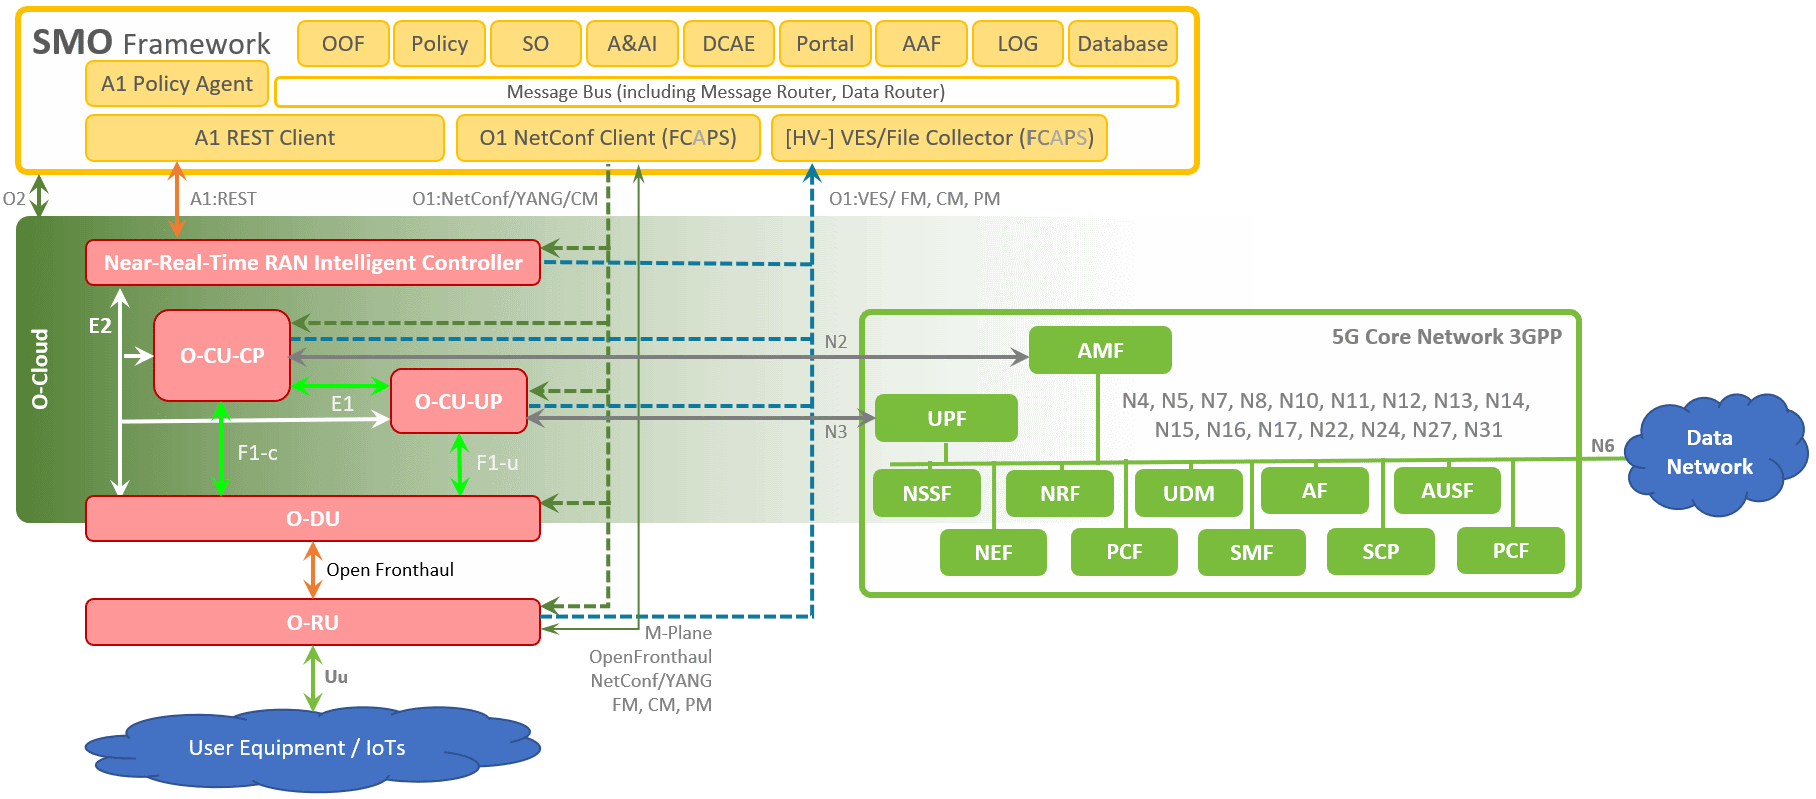
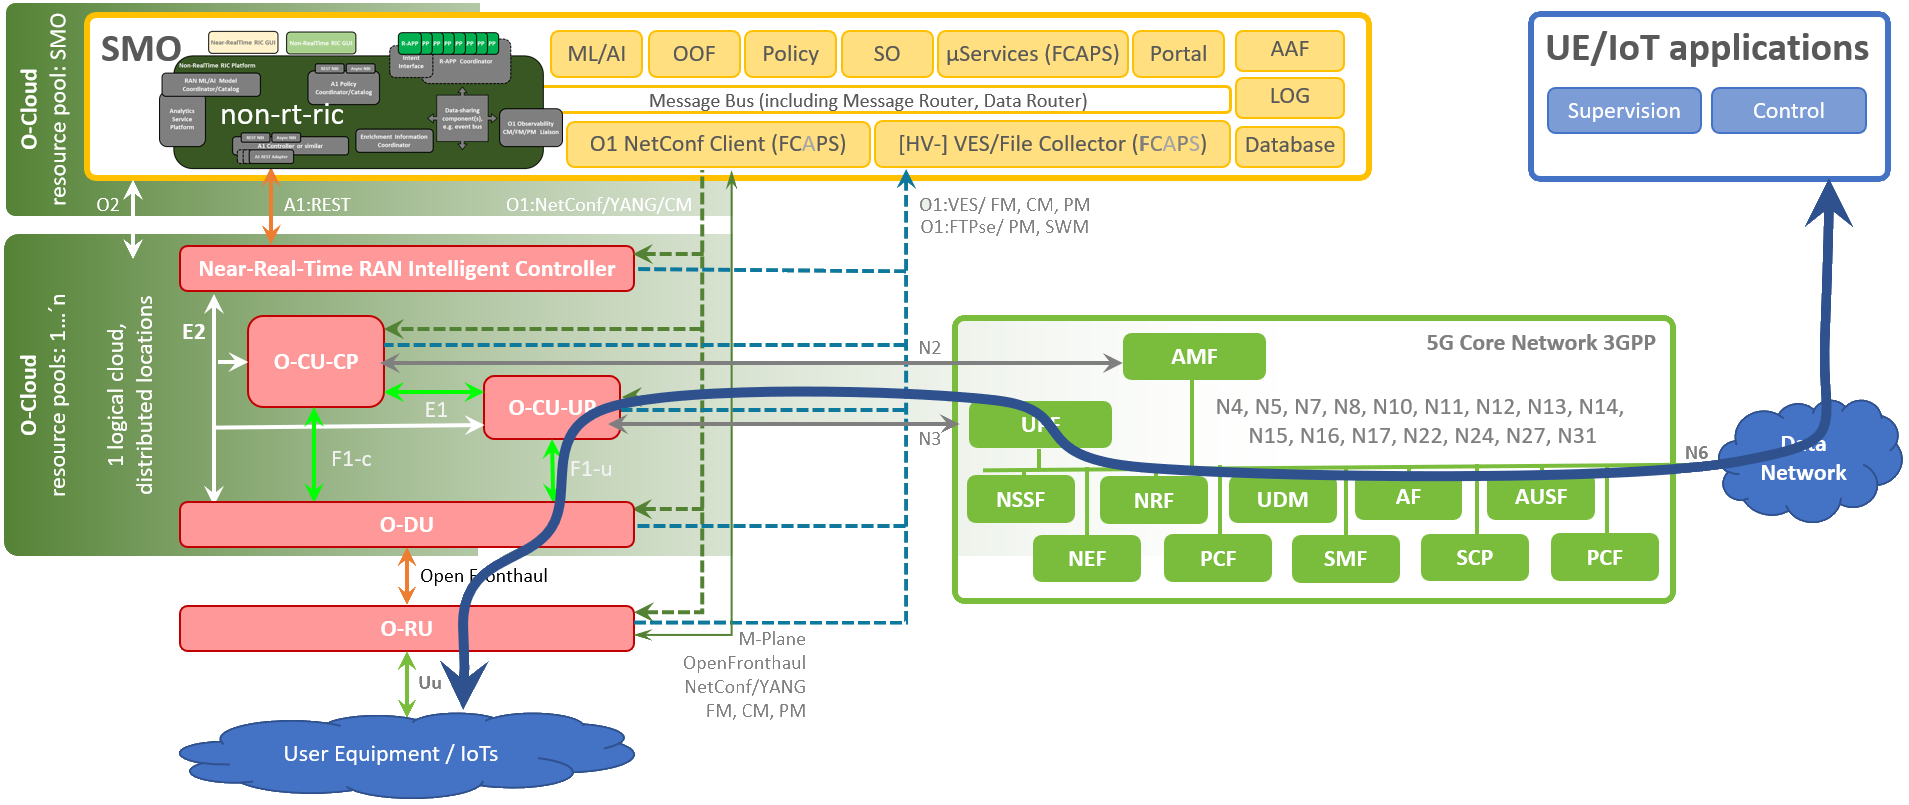
Update docs OAM architecture diagram
in addtion some editorial changes were made.

IssueID: OAM-171

diff --git a/docs/abbreviations.rst b/docs/abbreviations.rst
@@ -82,7 +82,7 @@ Abbreviations
 +------------------+------------------------------------------------------------------------------------------------------------------------------------------------------------------------------+
 | GBP              | `Group-Based Policy <https://wiki.openstack.org/wiki/GroupBasedPolicy>`__                                                                                                    |
 +------------------+------------------------------------------------------------------------------------------------------------------------------------------------------------------------------+
-| GNFC             | `Genric Network Function Controller <https://wiki.onap.org/download/attachments/45300148/ONAP_GNF_ControllersSOL003.pptx?version=1&modificationDate=1548619943000&api=v2>`__ |
+| GNFC             | `Generic Network Function Controller <https://wiki.onap.org/download/attachments/45300148/ONAP_GNF_ControllersSOL003.pptx?version=1&modificationDate=1548619943000&api=v2>`__ |
 +------------------+------------------------------------------------------------------------------------------------------------------------------------------------------------------------------+
 | GUI              | `Graphical User Interface <https://en.wikipedia.org/wiki/Graphical_user_interface>`__                                                                                        |
 +------------------+------------------------------------------------------------------------------------------------------------------------------------------------------------------------------+
@@ -92,7 +92,7 @@ Abbreviations
 +------------------+------------------------------------------------------------------------------------------------------------------------------------------------------------------------------+
 | HPA              | Hardware Platform Awareness                                                                                                                                                  |
 +------------------+------------------------------------------------------------------------------------------------------------------------------------------------------------------------------+
-| HTTP             | HyperText Transfer Protococol                                                                                                                                                |
+| HTTP             | HyperText Transfer Protocol                                                                                                                                                |
 +------------------+------------------------------------------------------------------------------------------------------------------------------------------------------------------------------+
 | HV VES           | `High Volume Virtual function Event Stream <https://wiki.onap.org/display/DW/High+Volume+VES+Collector>`__                                                                   |
 +------------------+------------------------------------------------------------------------------------------------------------------------------------------------------------------------------+
@@ -288,7 +288,7 @@ Abbreviations
 +------------------+------------------------------------------------------------------------------------------------------------------------------------------------------------------------------+
 | TSC              | Technical Steering Committee                                                                                                                                                 |
 +------------------+------------------------------------------------------------------------------------------------------------------------------------------------------------------------------+
-| U-UI             | `Usecase User Interface <https://wiki.onap.org/display/DW/Usecase+UI+Project>`__                                                                                             |
+| U-UI             | `Use case User Interface <https://wiki.onap.org/display/DW/Usecase+UI+Project>`__                                                                                             |
 +------------------+------------------------------------------------------------------------------------------------------------------------------------------------------------------------------+
 | UI               | `User Interface <https://en.wikipedia.org/wiki/User_interface>`__                                                                                                            |
 +------------------+------------------------------------------------------------------------------------------------------------------------------------------------------------------------------+
@@ -300,7 +300,7 @@ Abbreviations
 +------------------+------------------------------------------------------------------------------------------------------------------------------------------------------------------------------+
 | vDNS             | Virtual Domain Name Server (an example VNF)                                                                                                                                  |
 +------------------+------------------------------------------------------------------------------------------------------------------------------------------------------------------------------+
-| VDU              | `Virtualisation Deployment Unit <https://wiki.onap.org/display/DW/Comparison+of+Current+R3+Clean+Version+with+IFA011+v2.5.1>`__                                              |
+| VDU              | `Virtualization Deployment Unit <https://wiki.onap.org/display/DW/Comparison+of+Current+R3+Clean+Version+with+IFA011+v2.5.1>`__                                              |
 +------------------+------------------------------------------------------------------------------------------------------------------------------------------------------------------------------+
 | VES              | `Virtual function Event Stream <https://wiki.opnfv.org/download/attachments/6819329/OPNVF%20VES.pptx?version=4&modificationDate=1466395653000&api=v2>`__                     |
 +------------------+------------------------------------------------------------------------------------------------------------------------------------------------------------------------------+

diff --git a/docs/overview.rst b/docs/overview.rst
@@ -6,15 +6,15 @@ OAM Operation and Maintenance Overview
 ======================================
 
 The O-RAN SC OAM project provides administrative and operator
-functions for O-RAN components, such as Near-Realtime-RAN-Inelegent-Controller,
+functions for O-RAN components, such as Near-Realtime-RAN-Inelegant-Controller,
 O-RAN Centralized Unit, O-RAN Distributed Unit and O-RAN Radio Unit. 
 
-The project follows the specifications for the O1 interface as provided by
-O-RAN Working Group1. 
+The project follows the specifications for the `O1 interface <https://www.o-ran.org/specifications>`_ 
+as provided by O-RAN Working Group 1 (new 10).
 
 The O-RAN-SC OAM project adds features and functions to the OpenDaylight-based ONAP
 controller 'CCSDK/SDNC'. It is built on the Common Controller Framework
-to control and manage O-RAN managed elements and O-RAN managed functions. 
+to control and to manage O-RAN ManagedElements and O-RAN ManagedFunctions. 
 
 .. figure:: ./_static/o-ran-architecture.png
    :alt: SDN-R in ONAP
@@ -24,7 +24,6 @@ to control and manage O-RAN managed elements and O-RAN managed functions.
 
 Project Resources
 -----------------
-
 The project uses the following Linux Foundation resources:
 
 * The source code is maintained in this Gerrit:
@@ -43,21 +42,21 @@ The project uses the following Linux Foundation resources:
 Scope
 -----
 
-According to the O-RAN-SC-OAM-Architecture document all ManagedElements 
-(near-real-time-RIC, O-CU-CP, O-CU-UP, O-DU and O-RU) implement the 
-O1-interface.
+According to the `O-RAN-OAM-Architecture document <https://www.o-ran.org/specifications>`_ 
+all ManagedElements (ME) (near-real-time-RIC, O-CU-CP, O-CU-UP, O-DU and O-RU) 
+implement the O1-interface.
 
 The O-RAN-OAM-interface specification defines
 
 - a NetConf-Server for Configuration Management (CM) and
-- a http-client for Fault Managment (FM), Performance Management (PM) and other 
+- a http-client for Fault Management (FM), Performance Management (PM) and other 
   events on each Management-Service-Provider (MnS-Provider) running on the 
-  ManagedElement (ME).
+  ManagedElement.
 
 THe O-RAN-SC-OAM project provides reference implementation according to the 
-O-RAN OAM (WG1) documents. In addition we provide a common MnS-Consumer for 
-development and module test purposes.  The assumption is that the projects 
+O-RAN OAM documents. In addition it provides a lightweight MnS-Consumer for 
+development and module test purposes. The assumption is that the projects 
 for the ManagedElements can concentrate on the more important user-plane.
 
-Of cause each project needs its own OAM repo to address the specific needs 
-of the ManagedElement.
+Each project requires its own OAM repository to address the specific needs 
+of the ManagedFunction.

diff --git a/docs/release-notes.rst b/docs/release-notes.rst
@@ -18,7 +18,7 @@ Version 2.0.4, 2020-06-13
 * Documentation updated
 * Develop reusable OAM API such that the first consumer being a VTH can query, subscribe or publish on a DMAAP topic	Story
 * Create helm deployment for SMO
-* Featuresplit for starting devicemanages
+* Feature split for starting devicemanagers
 * Seed coder for an YANG linter
 * Please see also Release Notes of `ONAP SDNC <https://onap-doc.readthedocs.io/projects/onap-sdnc-oam/en/frankfurt/release-notes.html#release-notes>`_ and `ONAP OOM <https://onap-doc.readthedocs.io/projects/onap-oom/en/frankfurt/release-notes.html#release-notes>`_
 
@@ -26,7 +26,7 @@ Version 2.0.3, 2020-04-08
 -------------------------
 
 * What is an SMO?
-* Provide xRAN datamodels
+* Provide xRAN data models
 * Provide curl bash scripts for Software Management
 * Add jenkins jobs for oam
 * Add parents to model artifacts

diff --git a/docs/sdnr_Docker_Image_configuration.rst b/docs/sdnr_Docker_Image_configuration.rst
@@ -14,10 +14,10 @@ ONAP SDN-R is running in a docker container using ONAP/SDN-C image
 The container is available as Alpine and Ubuntu version. The description
 uses examples for the Alpine version.
 
-The alpine based sdnc docker imanges are stored in \ `ONAP Nexus sdnc
+The alpine based sdnc docker images are stored in \ `ONAP Nexus sdnc
 image <https://nexus3.onap.org:10001/v2/onap/sdnc-image/tags/list>`__.
 
-The docker image contains a Opendaylight distribution in a standard
+The docker image contains a OpenDaylight distribution in a standard
 configuration and ONAP/SDN-R specific microservices.
 
 The Root location of ODL Karaf directory structure

diff --git a/docs/mediator.rst b/docs/mediator.rst
@@ -5,10 +5,13 @@
 Mediator
 ========
 
-Some device vendors (Altiostar, CommScope, Dragonwave-X) use the
+A 'Mediator' provides an external -  to the physical network function - 
+OAM interface.
+
+Some physical network function manufactures use the
 `generic mediator
 framework <https://github.com/Melacon/NetConf2SNMP>`__. Such mediators
-offer an API to create, delete, start and stop mediator instances.
+offer a management API to control mediator function.
 
 New mediator servers can be added via the '+' button. Afterward, a
 server can be selected to view all available mediator instances.

diff --git a/docs/config-deploy.rst b/docs/config-deploy.rst
@@ -183,13 +183,13 @@ Kubernetes deployment resources is beyond the scope of this document.
 
   helm -n dev-smo local/onap -f ~/workspace/smo/deploy_smo_bronce.yaml --namespace onap --timeout 900
 
-* verifiy deployment
+* verify deployment
 
 .. code-block:: RST
   :linenos:
 
   helm ls
 
-* verifiy pnf-registration, fault notification use case
+* verify pnf-registration, fault notification use case
 
 Please open the O1 Dashboard: http://localhost:8181/odlux/index.html

diff --git a/docs/developer-guide.rst b/docs/developer-guide.rst
@@ -7,5 +7,5 @@ OAM Developer Guide
 
 This document provides a quickstart for developers of the O-RAN SC OAM components.
 
-All informations fo development are documented in coorespondding O-RAN-SC wiki:
+All information of development are documented in corresponding O-RAN-SC wiki:
 https://wiki.o-ran-sc.org/display/OAM/Operations+and+Maintenance
